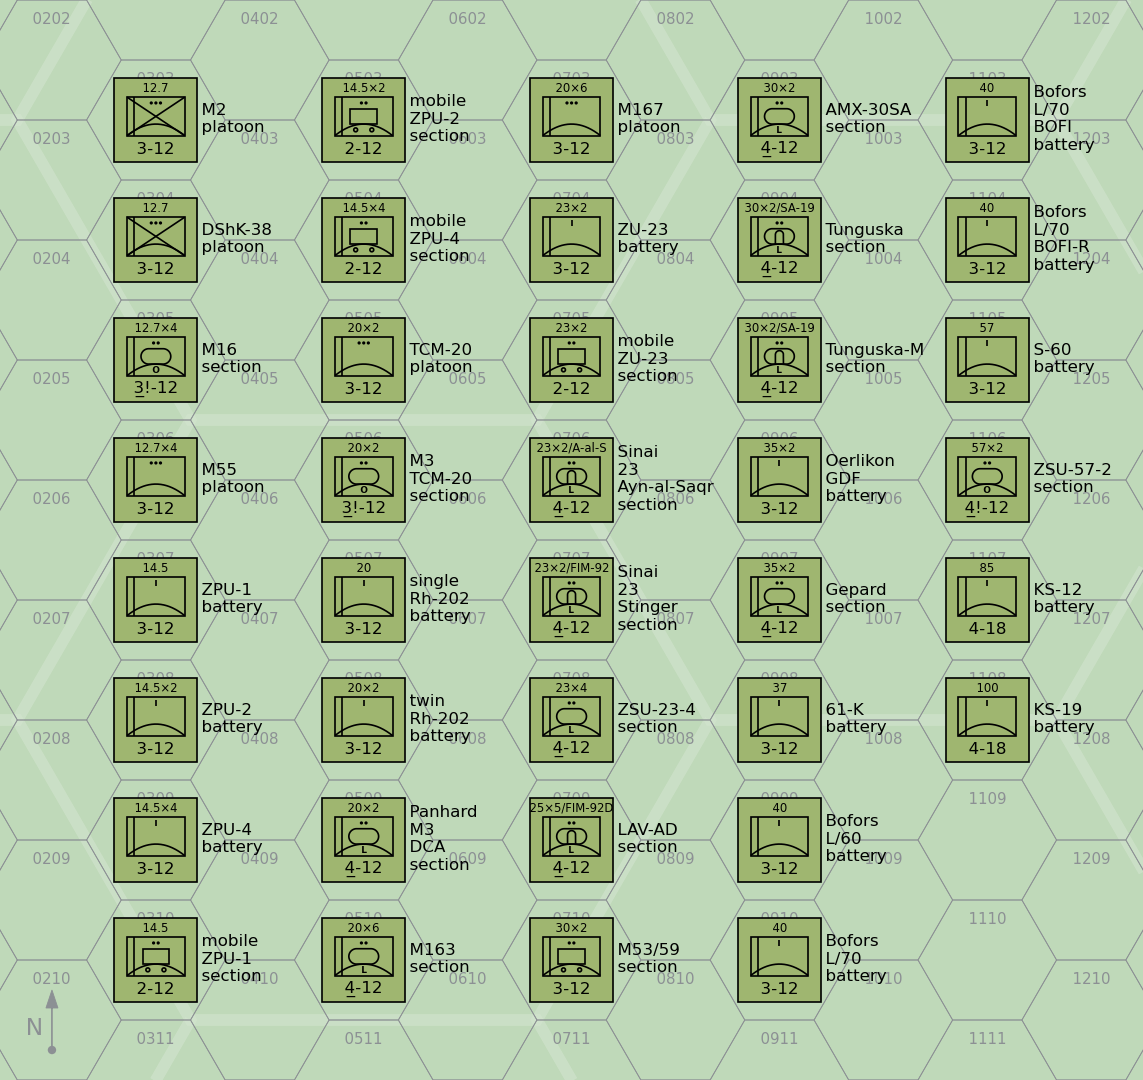
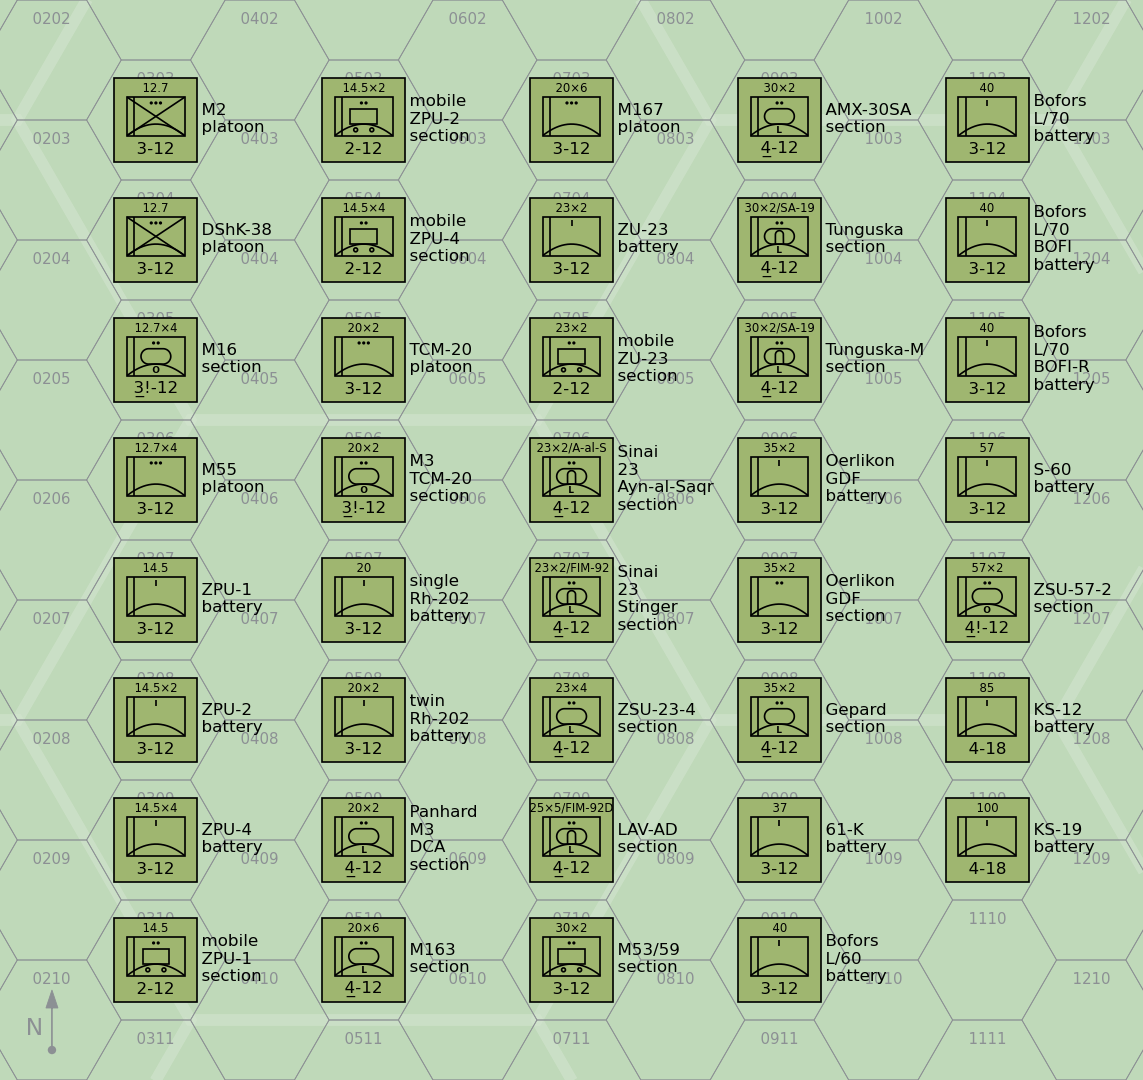
Add Oerlikon GDF section

diff --git a/groundunitdatatables/groundunitdata.tex b/groundunitdatatables/groundunitdata.tex
@@ -921,11 +921,15 @@ The Tunguska-M entered service in the Soviet Army in 1990. It has been used by R
 
 \subsection{Medium AAA Units}
 
-\subsubsection{Oerlikon GDF Battery}
+\subsubsection{Oerlikon GDF Battery and Section}
 
-The Oerlikon GDF has two 35~mm guns in an open mount on a towed carriage. The basic fire-control system is optical, but the guns are often coupled with the Super Fledermaus or Skyguard fire-control radars. A battery has six gun mounts.%
+The Oerlikon GDF has two 35~mm guns in an open mount on a towed carriage.
+A battery has six gun mounts and a section has two.
+The basic fire-control system is optical, but a section is often coupled with the Super Fledermaus or Skyguard fire-control radars.
+(These radars cannot control a whole battery, only a section.)%
 \note{
-    For the Oerlikon GDF battery: the AAA values are from \emph{Air Strike} with the hit rolls reduced from 5/4/3 to 4/3/2 as described in the extended note above.
+    For the Oerlikon GDF battery and section: The AAA values for the battery are from \emph{Air Strike} with the hit rolls reduced from 5/4/3 to 4/3/2 as described in the extended note above.
+    The AAA values for the section are determined using the recipe for sections described in the extended note above.
 }
 
 The Oerlikon GDF entered service in 1963 and has served widely. Notably, it saw combat in the South Atlantic War with the Argentine forces in the defense of BAM Malvinas (Port Stanley Airport) and BAM Condor (Goose Green Airfield).
@@ -1515,7 +1519,6 @@ This appendix contains a number of example orders of battle and their correspond
 We see that we need the following additional ground units:
 \begin{itemize}
     \item towed artillery \emph{section}
-    \item Oerlikon GDF \emph{section}
 \end{itemize}
 
 \begin{table*}[p]

diff --git a/groundunitdatatables/table-aaa-units.tex b/groundunitdatatables/table-aaa-units.tex
@@ -54,6 +54,7 @@ Tunguska &\wbox[l]{Section}{Section}&1984&\wbox[l]{0}{\underline{4}}&\wbox{00}{1
 Tunguska-M &\wbox[l]{Section}{Section}&1990&\wbox[l]{0}{\underline{4}}&\wbox{00}{12}&U&\wbox{00/00/0}{\wbox[c]{0}{--}/22/11}&\binarymultiply{30 mm}{2}&L&\wbox{00}{11}&\wbox{00}{4}&\wbox{00}{7}&\wbox{00}{9}&\wbox{00}{5}&\wbox{00}{4}&\wbox{00}{3}&\wbox{0}{4}&W/VF&---&SA-19\\
 \addlinespace
 Oerlikon GDF &\wbox[l]{Section}{Battery}&1963&\wbox[l]{0}{3}&\wbox{00}{12}&T&\wbox{00/00/0}{7/5/2}&\binarymultiply{35 mm}{2}&M&\wbox{00}{12}&\wbox{00}{4}&\wbox{00}{8}&\wbox{00}{10}&\wbox{00}{4}&\wbox{00}{3}&\wbox{00}{2}&\wbox{0}{4}&---&---&---\\
+Oerlikon GDF &\wbox[l]{Section}{Section}&1963&\wbox[l]{0}{3}&\wbox{00}{12}&T&\wbox{00/00/0}{\wbox[c]{0}{--}/5/2}&\binarymultiply{35 mm}{2}&M&\wbox{00}{12}&\wbox{00}{4}&\wbox{00}{8}&\wbox{00}{10}&\wbox{00}{3}&\wbox{00}{2}&\wbox{00}{1}&\wbox{0}{4}&---&---&---\\
 Gepard &\wbox[l]{Section}{Section}&1976&\wbox[l]{0}{\underline{4}}&\wbox{00}{12}&U&\wbox{00/00/0}{\wbox[c]{0}{--}/11/6}&\binarymultiply{35 mm}{2}&M&\wbox{00}{12}&\wbox{00}{4}&\wbox{00}{8}&\wbox{00}{10}&\wbox{00}{5}&\wbox{00}{4}&\wbox{00}{3}&\wbox{0}{4}&W/VF&---&---\\
 \addlinespace
 61-K &\wbox[l]{Section}{Battery}&1939&\wbox[l]{0}{3}&\wbox{00}{12}&T&\wbox{00/00/0}{5/3/2}&37 mm&M&\wbox{00}{12}&\wbox{00}{4}&\wbox{00}{8}&\wbox{00}{11}&\wbox{00}{3}&\wbox{00}{2}&\wbox{00}{1}&\wbox{0}{4}&---&---&---\\
